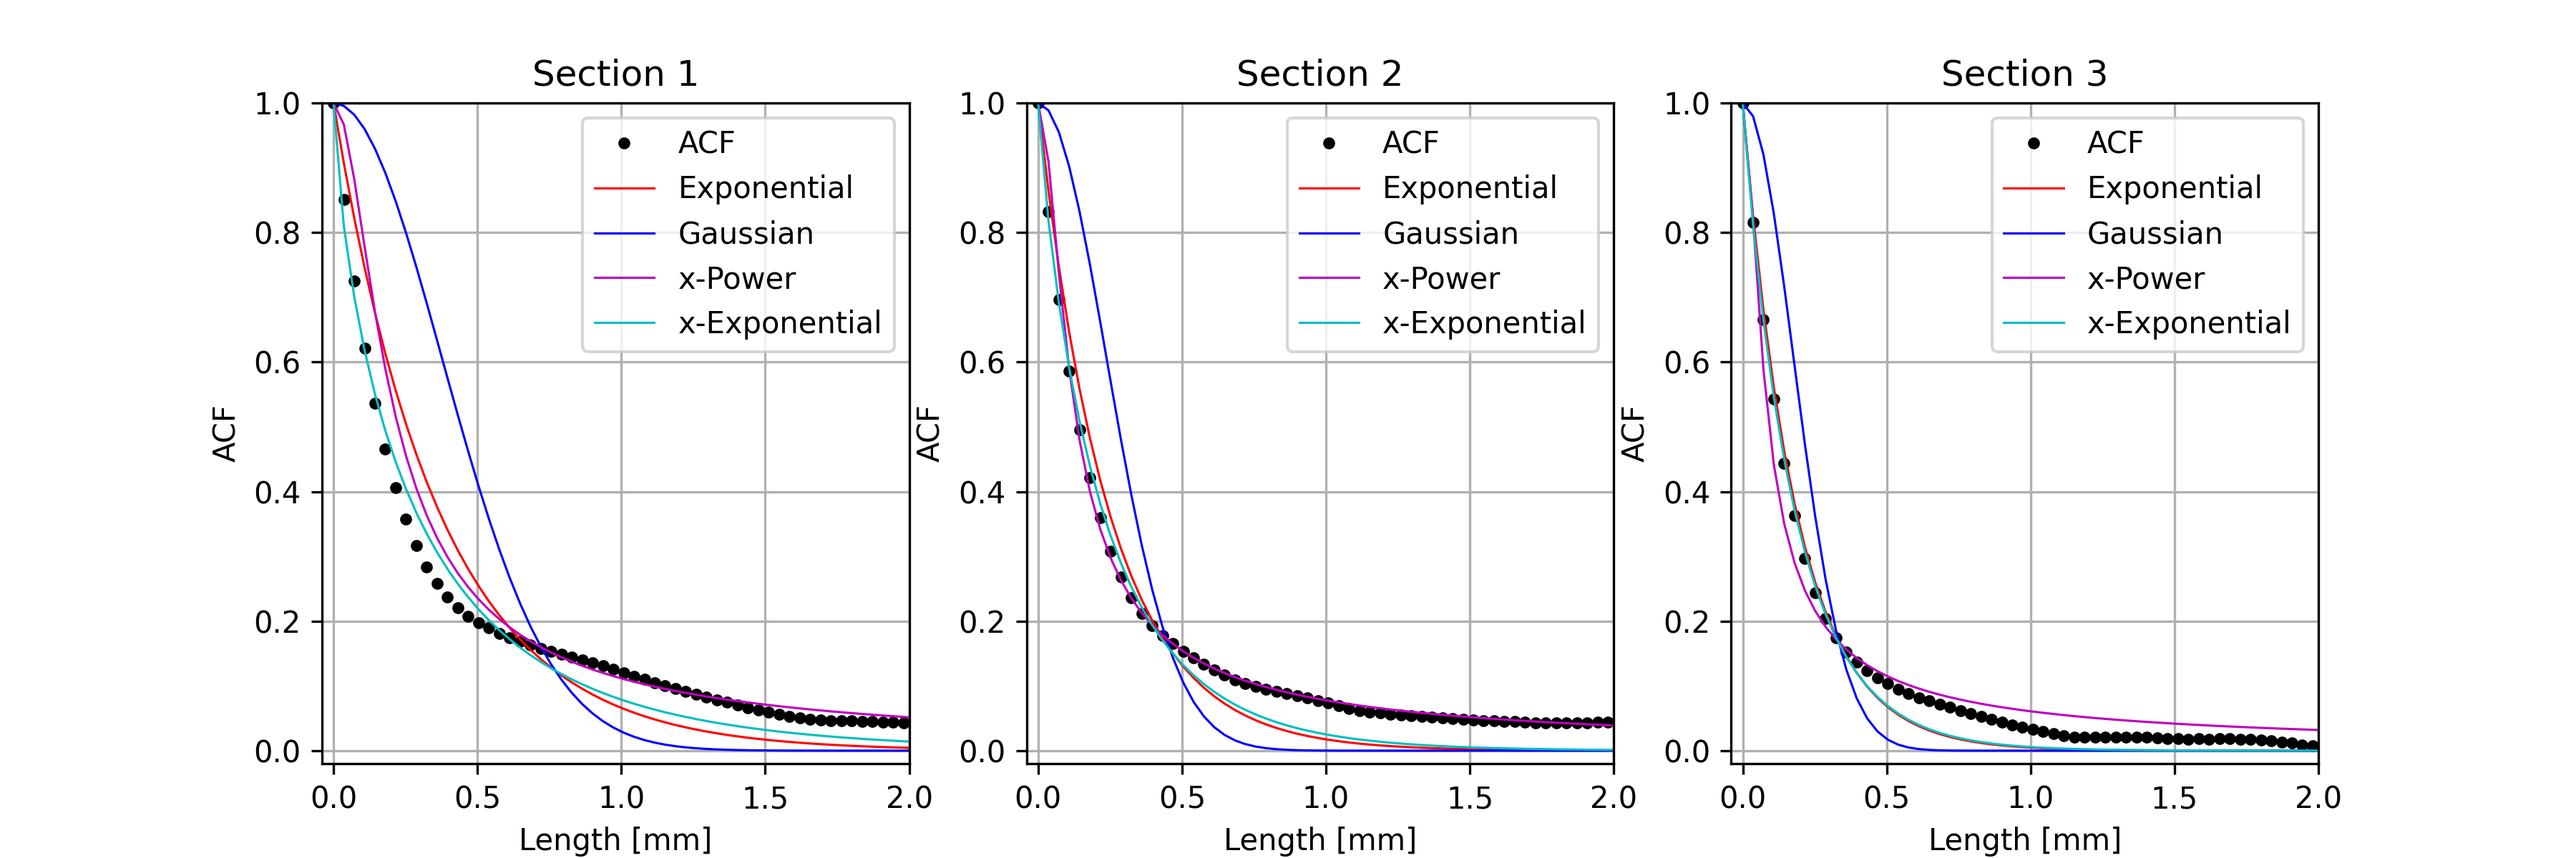
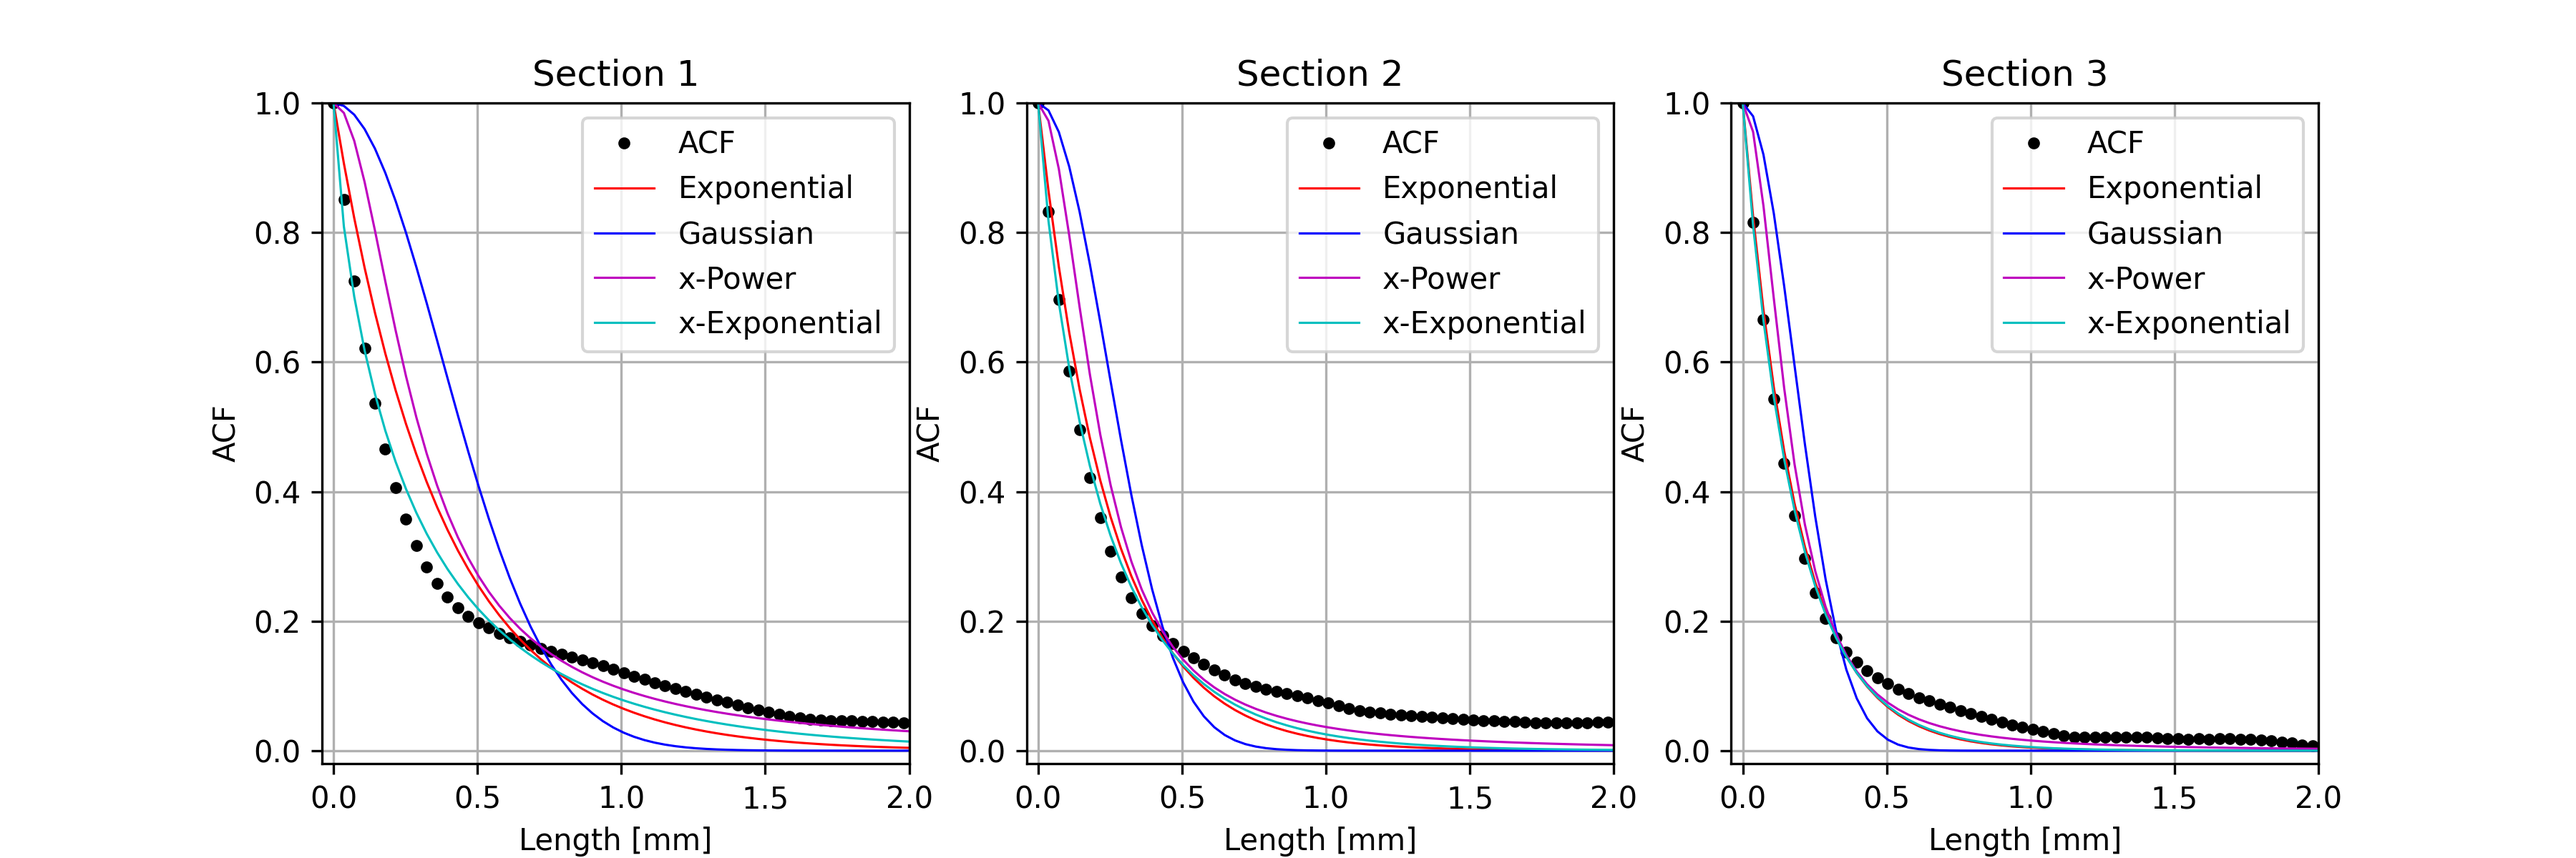
Fixed k-power!!!

diff --git a/nonTranposed.py b/nonTranposed.py
@@ -132,10 +132,10 @@ for nfo, filename in enumerate(os.listdir(files)):
     #-----------------------------------------------------------------
     # Plot - Kan udkommenteres ->
     funcTypes = np.array(["Exponential","Gaussian", "x-Power", "x-Exponential"])
-    # print(' -> Plotdata H...')
-    # plot_acf2(auflength, funcTypes, plotdata, xmax = 2, block = False, sectors = 3, saveas = filename[0:-4], plotshow=False)
-    # print(' -> Plotdata V...')
-    # plot_acf2(auflength, funcTypes, plotdata, xmax = 2, block = False, sectors = 3, saveas = filename[0:-4] + "_T", plotshow=False)
+    print(' -> Plotdata H...')
+    plot_acf2(auflength, funcTypes, plotdata, xmax = 2, block = True, sectors = 3, saveas = filename[0:-4], plotshow=False)
+    print(' -> Plotdata V...')
+    plot_acf2(auflength, funcTypes, plotdata, xmax = 2, block = True, sectors = 3, saveas = filename[0:-4] + "_T", plotshow=False)
     # print(' -> Threshold H...')
     # plot_threshold(clip=np.copy(rawclip), blurredClip=np.copy(blurredClip), conversion=conversion, saveas = filename[0:-4], plotshow = False)
     # print(' -> Threshold V...')

diff --git a/acf.py b/acf.py
@@ -63,7 +63,7 @@ def acf(clip, lags=50, conversion = 90/2000, plot=False, plotfunc=[1,2], plotnam
             plotdata = np.vstack([plotdata,x,y])
             
             for jdx, pf in enumerate(plotfunc):
-                coeffs, iidx = lsm3(x,y,pf, limit=ip)
+                coeffs, iidx = lsm3(x,y,pf, limit=ip,L=acl_est)
                 c = np.hstack([0,coeffs])
                 #print(c)
                 if pf == 1:
@@ -559,7 +559,7 @@ def lsm2(x,y, func=1, limit = np.exp(-2)):
  
 
 
-def lsm3(x,y, func=1, limit = np.exp(-2)):
+def lsm3(x,y, func=1, limit = np.exp(-2), L=1):
     """
     Least square method
     """
@@ -588,7 +588,7 @@ def lsm3(x,y, func=1, limit = np.exp(-2)):
 
     if func == 4:
         ly = np.log(y[1:])
-        A = np.hstack([np.log(x[1:])])
+        A = np.hstack([np.log(1 + (x[1:]/L)**2)])
 
     if func == 5:
         ly = np.log(-ly[1:])
@@ -624,7 +624,7 @@ def lsm3(x,y, func=1, limit = np.exp(-2)):
 
     if func == 4:
         a = m[0][0]
-        k = a
+        k = -a
         #print(f"k = {k}")
         A = np.hstack([x[1:]**2])
         ATA = np.transpose(A) @ A
